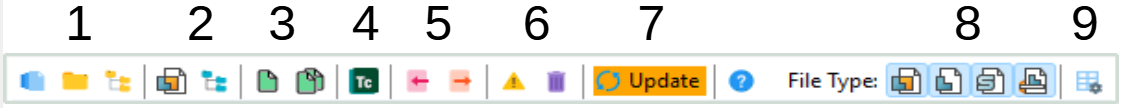
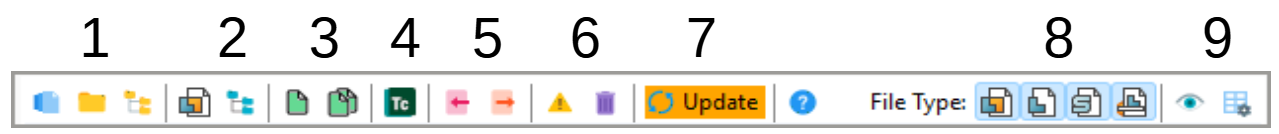
Documentation

diff --git a/HelpTopics.md b/HelpTopics.md
@@ -268,7 +268,9 @@ You can limit the search to return only selected types of Solid Edge files. Refe
 
 <details open><summary><h4 style="margin:0px; display:inline-block">File List Options</h4></summary>
 
-You can customize the list to show file properties if desired.  Referring to the toolbar diagram, tool group 9. 
+You can show a file preview and/or customize the list to show file properties if desired.  Referring to the toolbar diagram, tool group 9. 
+
+Click ![Preview](My%20Project/media/preview_show.png) to enable a preview of a selected file on the list.
 
 Click ![Columns](Resources/icons8_table_properties_16.png) to open the column selection pane, shown on the left below
 

diff --git a/README.md b/README.md
@@ -268,7 +268,9 @@ You can limit the search to return only selected types of Solid Edge files. Refe
 
 <details><summary><h4 style="margin:0px; display:inline-block">File List Options</h4></summary>
 
-You can customize the list to show file properties if desired.  Referring to the toolbar diagram, tool group 9. 
+You can show a file preview and/or customize the list to show file properties if desired.  Referring to the toolbar diagram, tool group 9. 
+
+Click ![Preview](My%20Project/media/preview_show.png) to enable a preview of a selected file on the list.
 
 Click ![Columns](Resources/icons8_table_properties_16.png) to open the column selection pane, shown on the left below
 

diff --git a/release_notes.md b/release_notes.md
@@ -19,7 +19,7 @@ Feel free to report bugs and/or ideas for improvement on the [<ins>**Solid Edge 
 
 Contributed by **@[Francesco Arfilli]** suggested by **@TeeVar.**  Thank you!
 
-Added the ability to show the thumbnail of a selected file.
+Added an option to show the thumbnail of a selected file.  On the toolbar, click the eye icon to toggle.
 
 <p align="center">
   <img src="My%20Project/media/preview_window.png">
